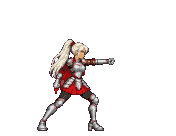
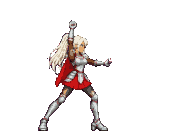
기사 여자 3타 새 그림(솟구치는 X자 마무리) + 기사 전용 3타 수치
- 기사 여자 attack3 그림 6장·손 위치를 새 동작으로 교체 (견습 여자 3타는 그대로)
- MOVES.female.knightCombo: 기사 옷에만 바꿔 끼우는 타 (3타 시간·판정·베기 방향 새로)
- 마무리 타는 그대로 고블린·늑대를 넘어뜨림

Changed region(s): [[0.1989, 0.1471, 0.6534, 0.9706]]

diff --git a/js/config.js b/js/config.js
@@ -77,7 +77,24 @@
               reach: { x0: 10, x1: 100, yTop: -112, yBot: -10 },
               fx: { type: 'slash', x: 46, y: -66, rot: 20, sx: 1.25, sy: 1.25 }, arc: { from: 60, to: -100, r: 56, w: 11 } }
           ] }
-      ]
+      ],
+      // 기사 옷만 따로 쓰는 타(knightCombo): 번호(0부터) = 바꿀 타. 없는 타는 위 combo 를 그대로 쓴다.
+      // 기사 여자 3타는 그림을 새로 그려서(2026-11-03, 솟구치는 X자 마무리) 견습 여자 3타와 동작이 다르다
+      knightCombo: {
+        // 3타 = 솟구치는 X자 마무리: 장 0 앞발 딛고 칼을 어깨 위로 크게 젖힘 → 장 1 대각선 내려베기(1번째 판정)
+        //   → 장 2 칼을 무릎 옆 뒤쪽으로 뒤집기 → 장 3 반대 대각선 올려베기(2번째 판정 = 마무리, X자 완성)
+        //   → 장 4·5 칼을 머리 위 뒤로 치켜든 마무리 자세. 그림 속에서 앞으로 약 20도트 디디므로 lunge 는 작게
+        2: { anim: 'attack3', f: [0, 1, 2, 3, 4, 5], d: [70, 55, 45, 60, 160, 120], cancel: 99, endAdvance: 4,
+             reach: { x0: 8, x1: 80, yTop: -110, yBot: -12 },
+             hits: [
+               { active: [1, 1], lunge: 2, dmg: 0.7, hitstop: 0.9, knock: 0.5, shake: 0.9,
+                 reach: { x0: 8, x1: 76, yTop: -106, yBot: -14 },
+                 fx: { type: 'slash', x: 44, y: -62, rot: -45, sx: 1.0, sy: 1.1 }, arc: { from: -135, to: 50, r: 52, w: 10 } },
+               { active: [3, 3], lunge: 2, dmg: 1.6, hitstop: 1.9, knock: 2.4, shake: 2.3, finisher: true,
+                 reach: { x0: 6, x1: 80, yTop: -112, yBot: -12 },
+                 fx: { type: 'slash', x: 46, y: -64, rot: 120, sx: 1.2, sy: 1.15, flipY: true }, arc: { from: 150, to: -60, r: 56, w: 12 } }
+             ] }
+      }
     }
   };
 
@@ -132,10 +149,15 @@
   // 콤보 3타는 캐릭터마다 자기 그림(attack1/attack2/attack3)과 자기 수치를 쓴다 (위 MOVES)
   // 직업(견습/기사)에 따라 콤보 묶음이 바뀐다: combos.fist = 맨손(FIST), combos.sword = 검(MOVES)
   // outfit = 옷 그림 묶음('knight' = 기사 갑옷). 없으면 견습 옷. 기사 옷 그림은 검 콤보 그림만 있고 맨손(fist) 그림은 없다
-  //   (파일 이름·장 수·발 위치가 견습 그림과 똑같아서 MOVES 수치를 그대로 쓴다)
+  //   (파일 이름·장 수·발 위치가 견습 그림과 똑같아서 MOVES 수치를 그대로 쓴다. 단 MOVES.<성별>.knightCombo 에 있는 타는 기사만 따로)
   function stage1(who, anchors, outfit) {
     var p = 'assets/chars/stage1/' + (outfit ? outfit + '_' : '') + who + '/';
     var M = MOVES[who];
+    // 검 콤보: 기사 옷이면 knightCombo 에 있는 타만 바꿔 끼운다(나머지 타는 견습과 같은 수치)
+    var swordCombo = M.combo;
+    if (outfit === 'knight' && M.knightCombo) {
+      swordCombo = M.combo.map(function (st, i) { return M.knightCombo[i] || st; });
+    }
     var def = {
       label: who === 'male' ? '남' : '여',
       frameW: 176, frameH: 136,
@@ -161,8 +183,8 @@
         knockdown: { frames: seq(p + 'knockdown_', 5), d: [110, 160, 110, 110], loop: false },   // 장 1~4 시간, 5(누움)는 계속
         getup:     { frames: seq(p + 'getup_', 4),     d: [220, 180, 160, 140], loop: false }
       },
-      combo: M.combo,
-      combos: { sword: M.combo }
+      combo: swordCombo,
+      combos: { sword: swordCombo }
     };
     if (!outfit) {   // 견습 옷만 맨손 콤보 그림이 있다
       def.anims.fist1 = { frames: seq(p + 'fist1_', 4),  fps: 14, loop: false };
